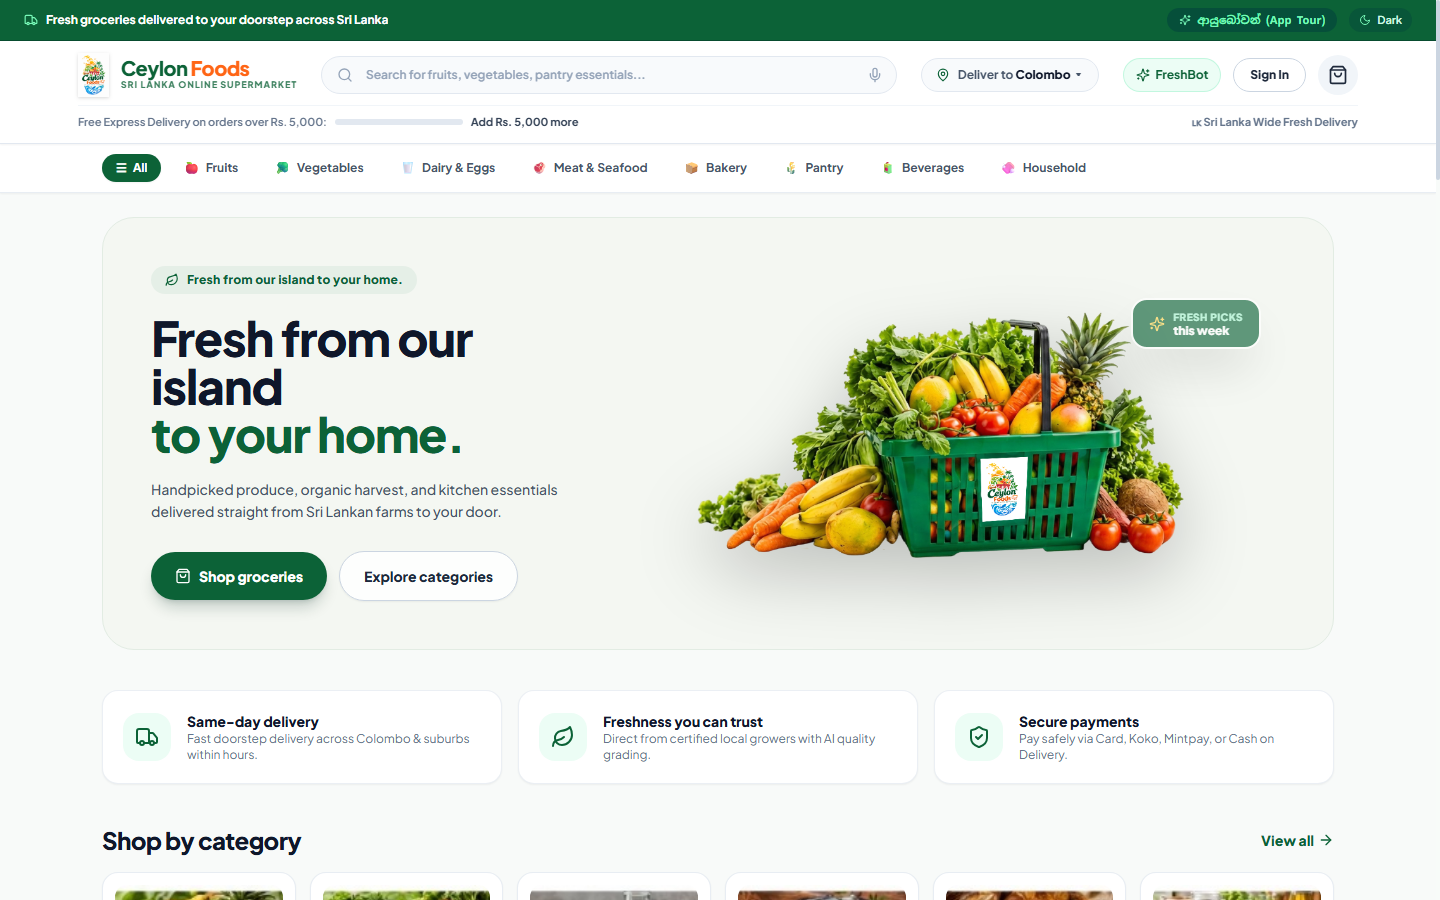
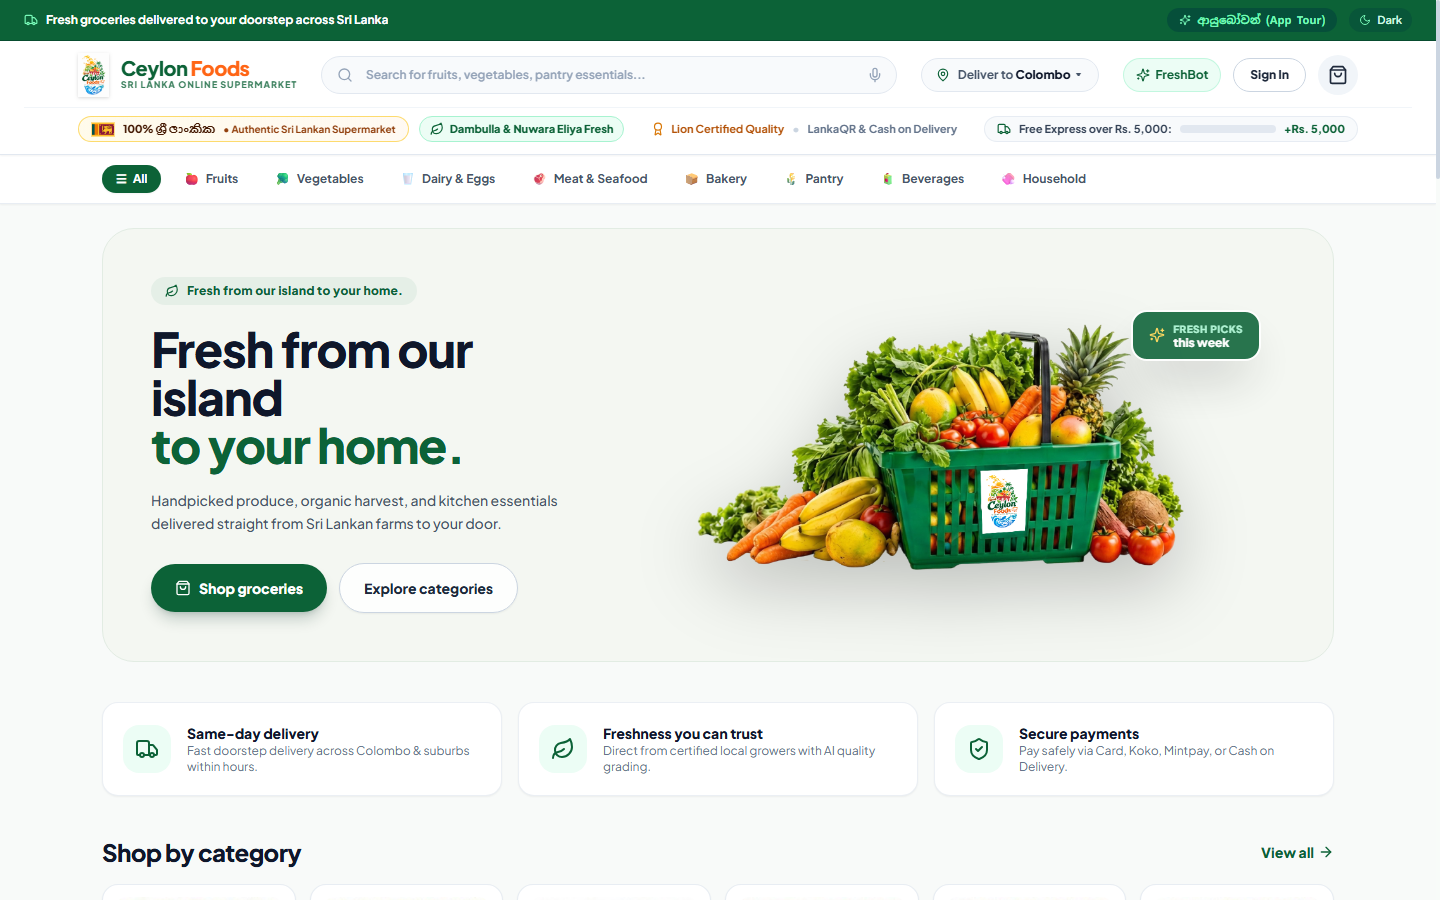
Replace plain delivery threshold bar with official Sri Lankan flag authenticity ribbon and trust seals

diff --git a/client/src/App.tsx b/client/src/App.tsx
@@ -578,27 +578,66 @@ export default function ClientWebSupermarket() {
           </div>
         </div>
 
-        {/* Free Delivery Threshold Bar */}
-        <div className="max-w-7xl mx-auto mt-2 pt-2 border-t border-slate-100 dark:border-zinc-800/80 flex items-center justify-between text-[11px]">
-          <div className="flex items-center gap-2 text-slate-500 dark:text-zinc-400 font-semibold">
-            <span>Free Express Delivery on orders over Rs. 5,000:</span>
-            <div className="w-32 h-1.5 bg-slate-200 dark:bg-zinc-800 rounded-full overflow-hidden">
-              <div
-                className="h-full bg-gradient-to-r from-[#0C6237] to-[#78F9B8] transition-all duration-300"
-                style={{ width: `${Math.min(100, (subtotal / 5000) * 100)}%` }}
-              ></div>
-            </div>
-            {subtotal >= 5000 ? (
-              <span className="font-extrabold text-[#0C6237] dark:text-[#78F9B8]">🎉 Free Delivery Unlocked!</span>
-            ) : (
-              <span className="font-bold text-slate-700 dark:text-zinc-300">
-                Add Rs. {Math.max(0, 5000 - Math.round(subtotal)).toLocaleString()} more
-              </span>
-            )}
-          </div>
+        {/* Cultural Sri Lankan Trust & Free Delivery Ribbon */}
+        <div className="w-full mt-2.5 pt-2 border-t border-slate-100 dark:border-zinc-800/80">
+          <div className="max-w-7xl mx-auto flex items-center justify-between gap-3 text-xs">
+            {/* Left: Flag Badge + Sri Lankan Authentic Identity */}
+            <div className="flex items-center gap-2.5 shrink-0">
+              <div className="flex items-center gap-2 px-3 py-1 rounded-full bg-gradient-to-r from-amber-50 to-orange-50/70 dark:from-amber-950/40 dark:to-orange-950/30 border border-amber-300/80 dark:border-amber-700/60 shadow-xs hover:border-amber-400 transition cursor-default">
+                <img
+                  src="/sri_lanka_flag.svg"
+                  alt="Flag of Sri Lanka"
+                  className="shrink-0 rounded-xs shadow-xs object-cover border border-amber-400/50"
+                  style={{ width: '24px', height: '15px' }}
+                />
+                <span className="text-[11px] font-black tracking-tight text-amber-950 dark:text-amber-100 whitespace-nowrap">
+                  100% ශ්රී ලාංකික
+                </span>
+                <span className="text-[10px] text-amber-800 dark:text-amber-300 font-bold hidden sm:inline whitespace-nowrap">
+                  • Authentic Sri Lankan Supermarket
+                </span>
+              </div>
 
-          <div className="flex items-center gap-2 text-[11px] font-bold text-slate-500">
-            <span>🇱🇰 Sri Lanka Wide Fresh Delivery</span>
+              <div className="hidden md:flex items-center gap-1.5 px-2.5 py-1 rounded-full bg-emerald-50 dark:bg-emerald-950/50 border border-emerald-200 dark:border-emerald-800 text-[11px] font-extrabold text-[#0C6237] dark:text-[#78F9B8] whitespace-nowrap">
+                <Leaf className="w-3.5 h-3.5 text-[#0C6237] dark:text-[#78F9B8]" />
+                <span>Dambulla & Nuwara Eliya Fresh</span>
+              </div>
+            </div>
+
+            {/* Center: Ceylon Quality Seal (Large screens) */}
+            <div className="hidden lg:flex items-center gap-2 text-[11px] font-bold text-slate-600 dark:text-zinc-300 whitespace-nowrap">
+              <span className="flex items-center gap-1.5 text-amber-700 dark:text-amber-300">
+                <Award className="w-3.5 h-3.5 text-amber-600 dark:text-amber-400" />
+                <span>Lion Certified Quality</span>
+              </span>
+              <span className="text-slate-300 dark:text-zinc-700">•</span>
+              <span className="text-slate-500 dark:text-zinc-400">
+                LankaQR & Cash on Delivery
+              </span>
+            </div>
+
+            {/* Right: Rupee Free Express Meter */}
+            <div className="flex items-center gap-2 px-3 py-1 rounded-full bg-slate-50 dark:bg-zinc-800/80 border border-slate-200/80 dark:border-zinc-700/80 shadow-xs text-[11px] shrink-0 ml-auto sm:ml-0">
+              <Truck className="w-3.5 h-3.5 text-[#0C6237] dark:text-[#78F9B8] shrink-0" />
+              <span className="font-bold text-slate-700 dark:text-zinc-200 hidden sm:inline whitespace-nowrap">
+                Free Express over Rs. 5,000:
+              </span>
+              <div className="w-20 sm:w-24 h-2 bg-slate-200 dark:bg-zinc-700 rounded-full overflow-hidden">
+                <div
+                  className="h-full bg-gradient-to-r from-[#0C6237] via-[#0284C7] to-[#78F9B8] transition-all duration-300"
+                  style={{ width: `${Math.min(100, (subtotal / 5000) * 100)}%` }}
+                />
+              </div>
+              {subtotal >= 5000 ? (
+                <span className="font-black text-[#0C6237] dark:text-[#78F9B8] flex items-center gap-1 whitespace-nowrap">
+                  <CheckCircle className="w-3 h-3 text-emerald-600" /> Free Unlocked!
+                </span>
+              ) : (
+                <span className="font-extrabold text-[#0C6237] dark:text-emerald-300 whitespace-nowrap">
+                  +Rs. {Math.max(0, 5000 - Math.round(subtotal)).toLocaleString()}
+                </span>
+              )}
+            </div>
           </div>
         </div>
       </header>
